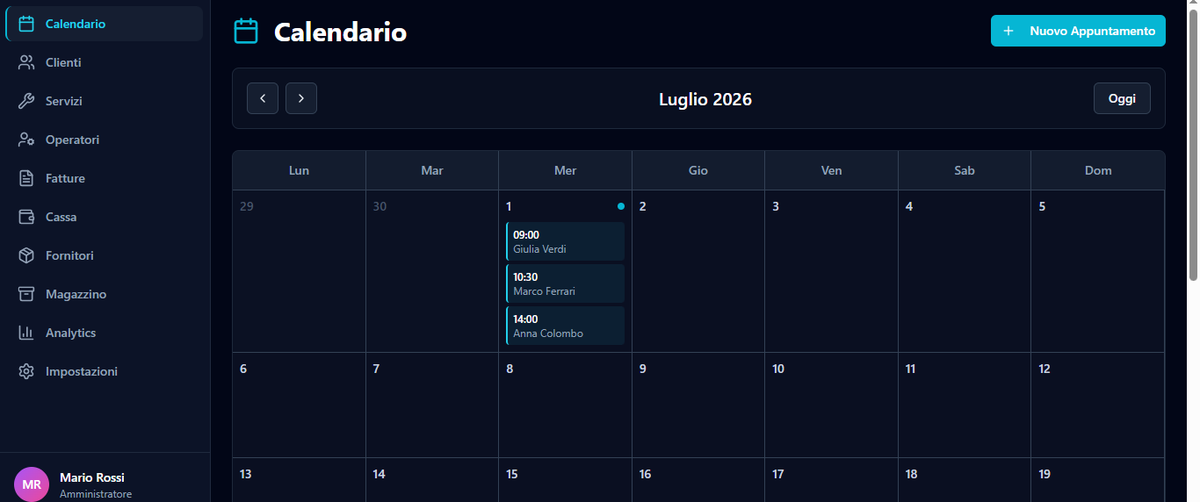
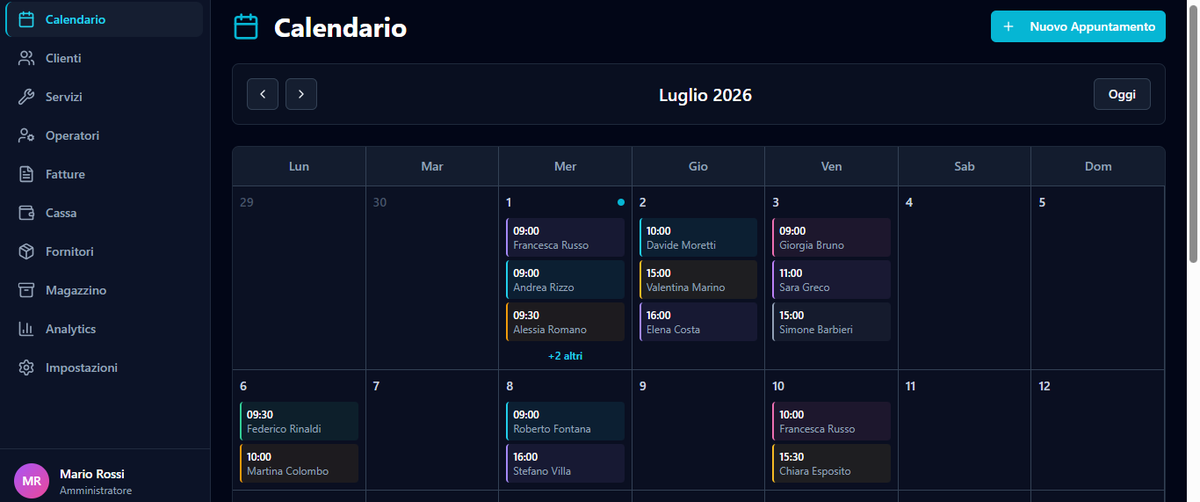
fix(seo-bologna): screenshot agenda piena e credibile (#1)

diff --git a/.claude/NEXT_SESSION_PROMPT.md b/.claude/NEXT_SESSION_PROMPT.md
@@ -1,6 +1,6 @@
 # Breadcrumb ripartenza — STATE.md è il source-of-truth
 
-**Generato**: `2026-07-01T15:53:22Z` · sessione `d50e3972-3fa2-4a0d-90e5-efb281bf74ac` · commit auto: cosmetic-skip (only NEXT_SESSION_PROMPT.md dirty, no plan/scope change)
+**Generato**: `2026-07-01T16:40:55Z` · sessione `5d30a780-3129-4a76-9174-08c7242eb137` · commit auto: no-changes
 
 > Questo file NON contiene stato. Lo stato reale (anelli E2E, task corrente,
 > prossimi step) è in `STATE.md` — generato da `state/refresh.sh`, unico
